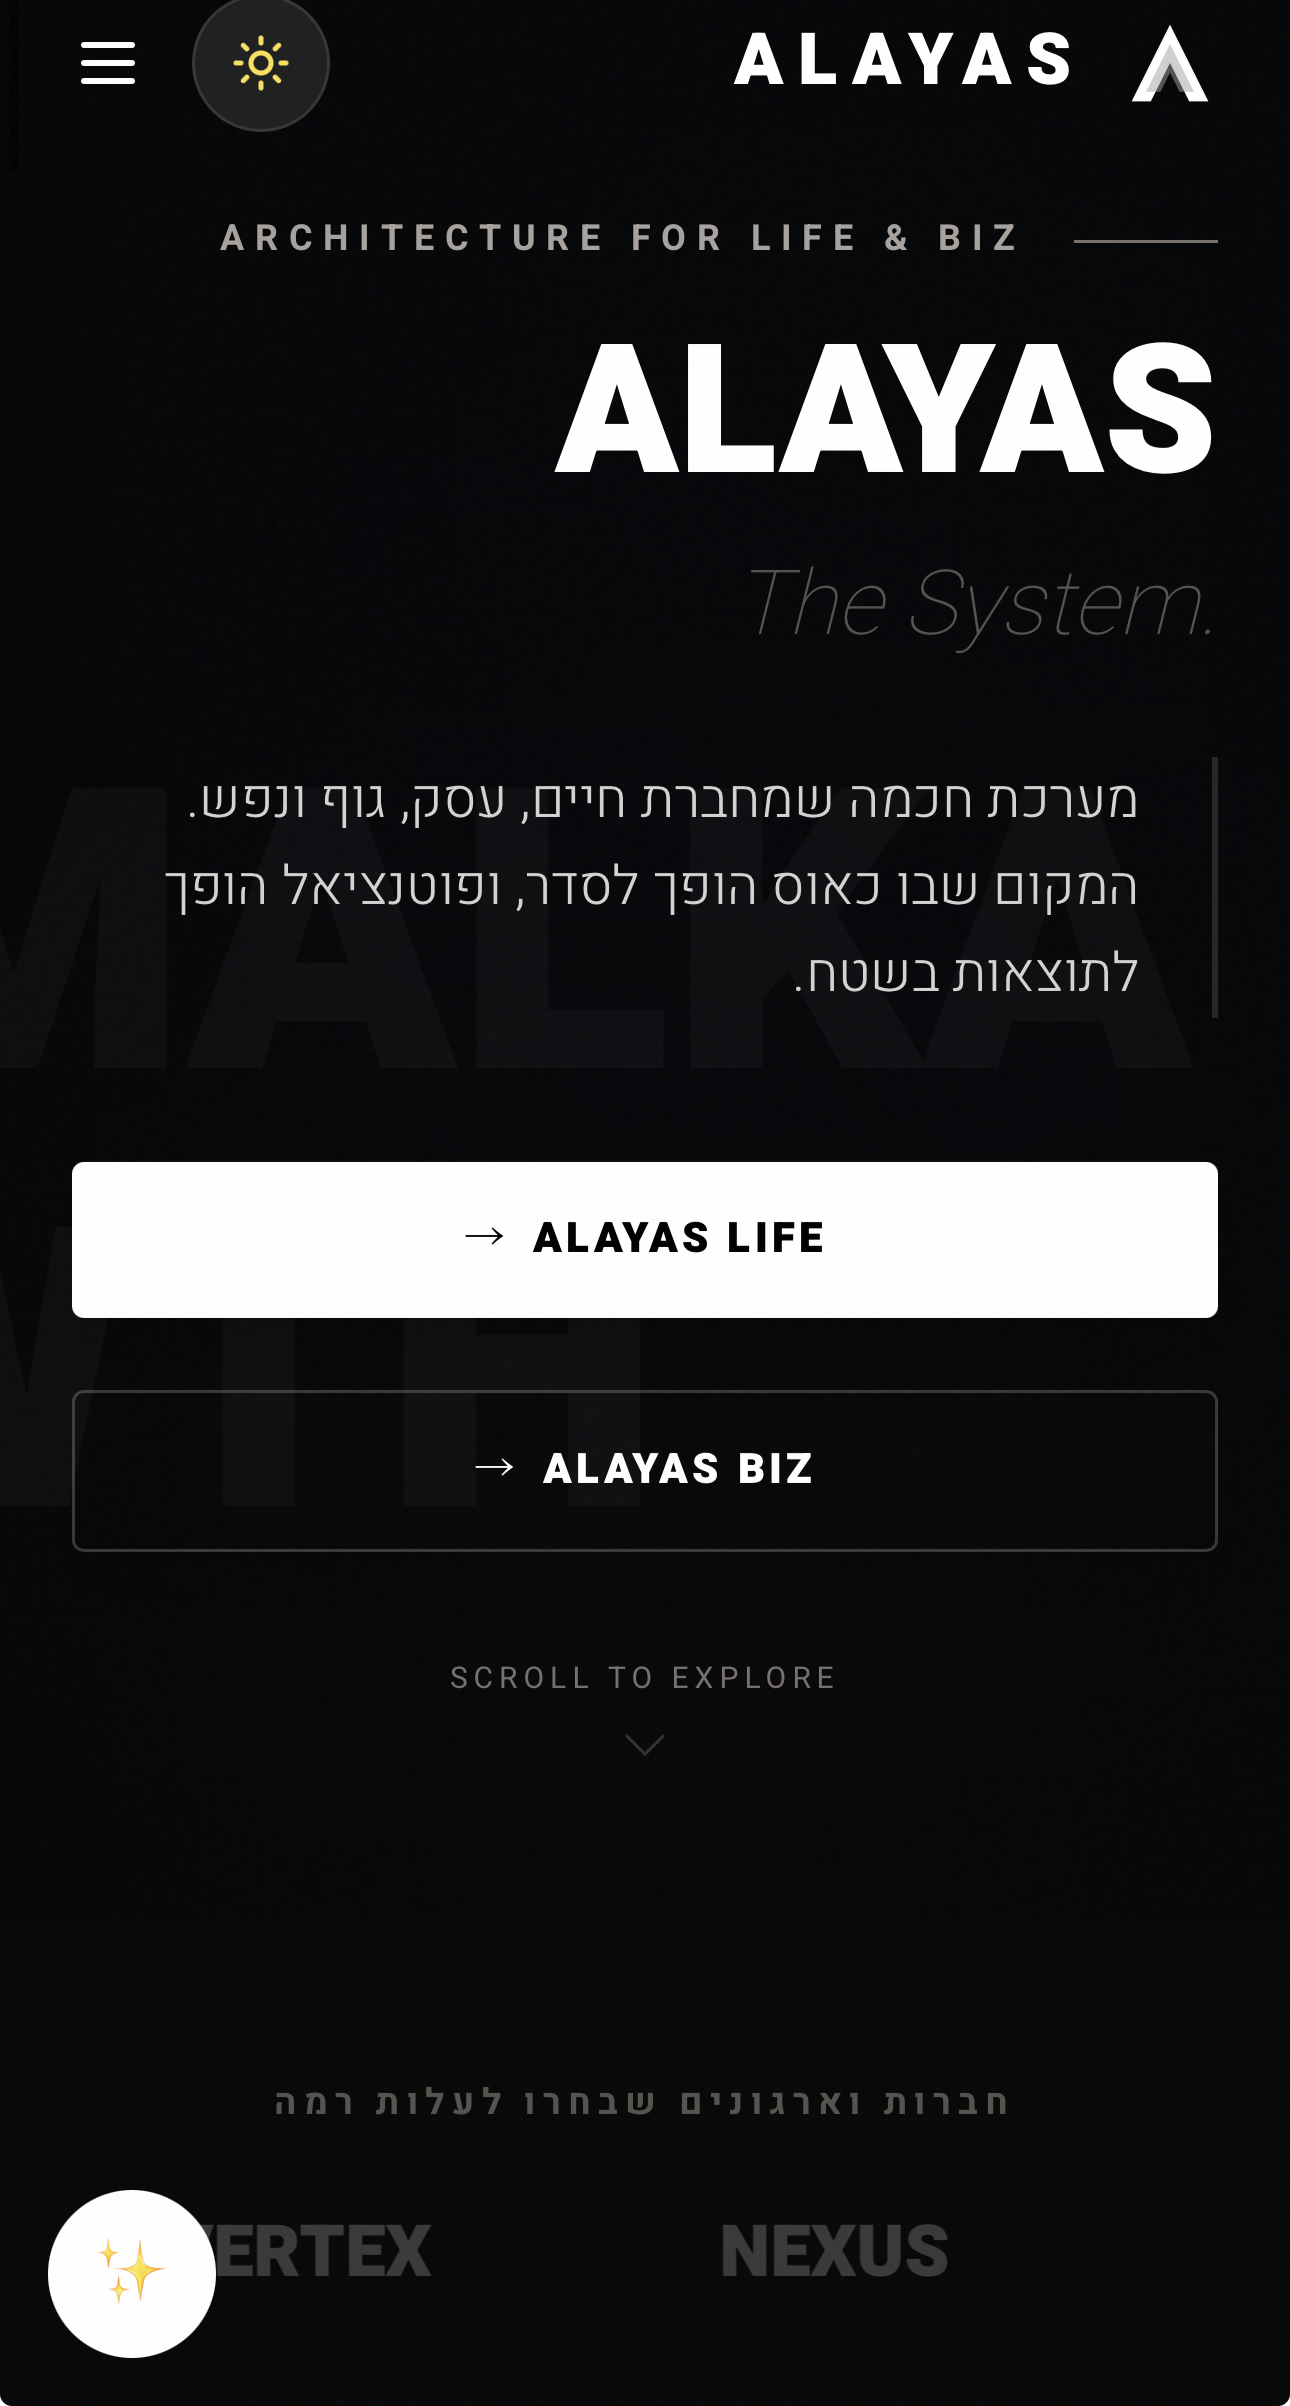
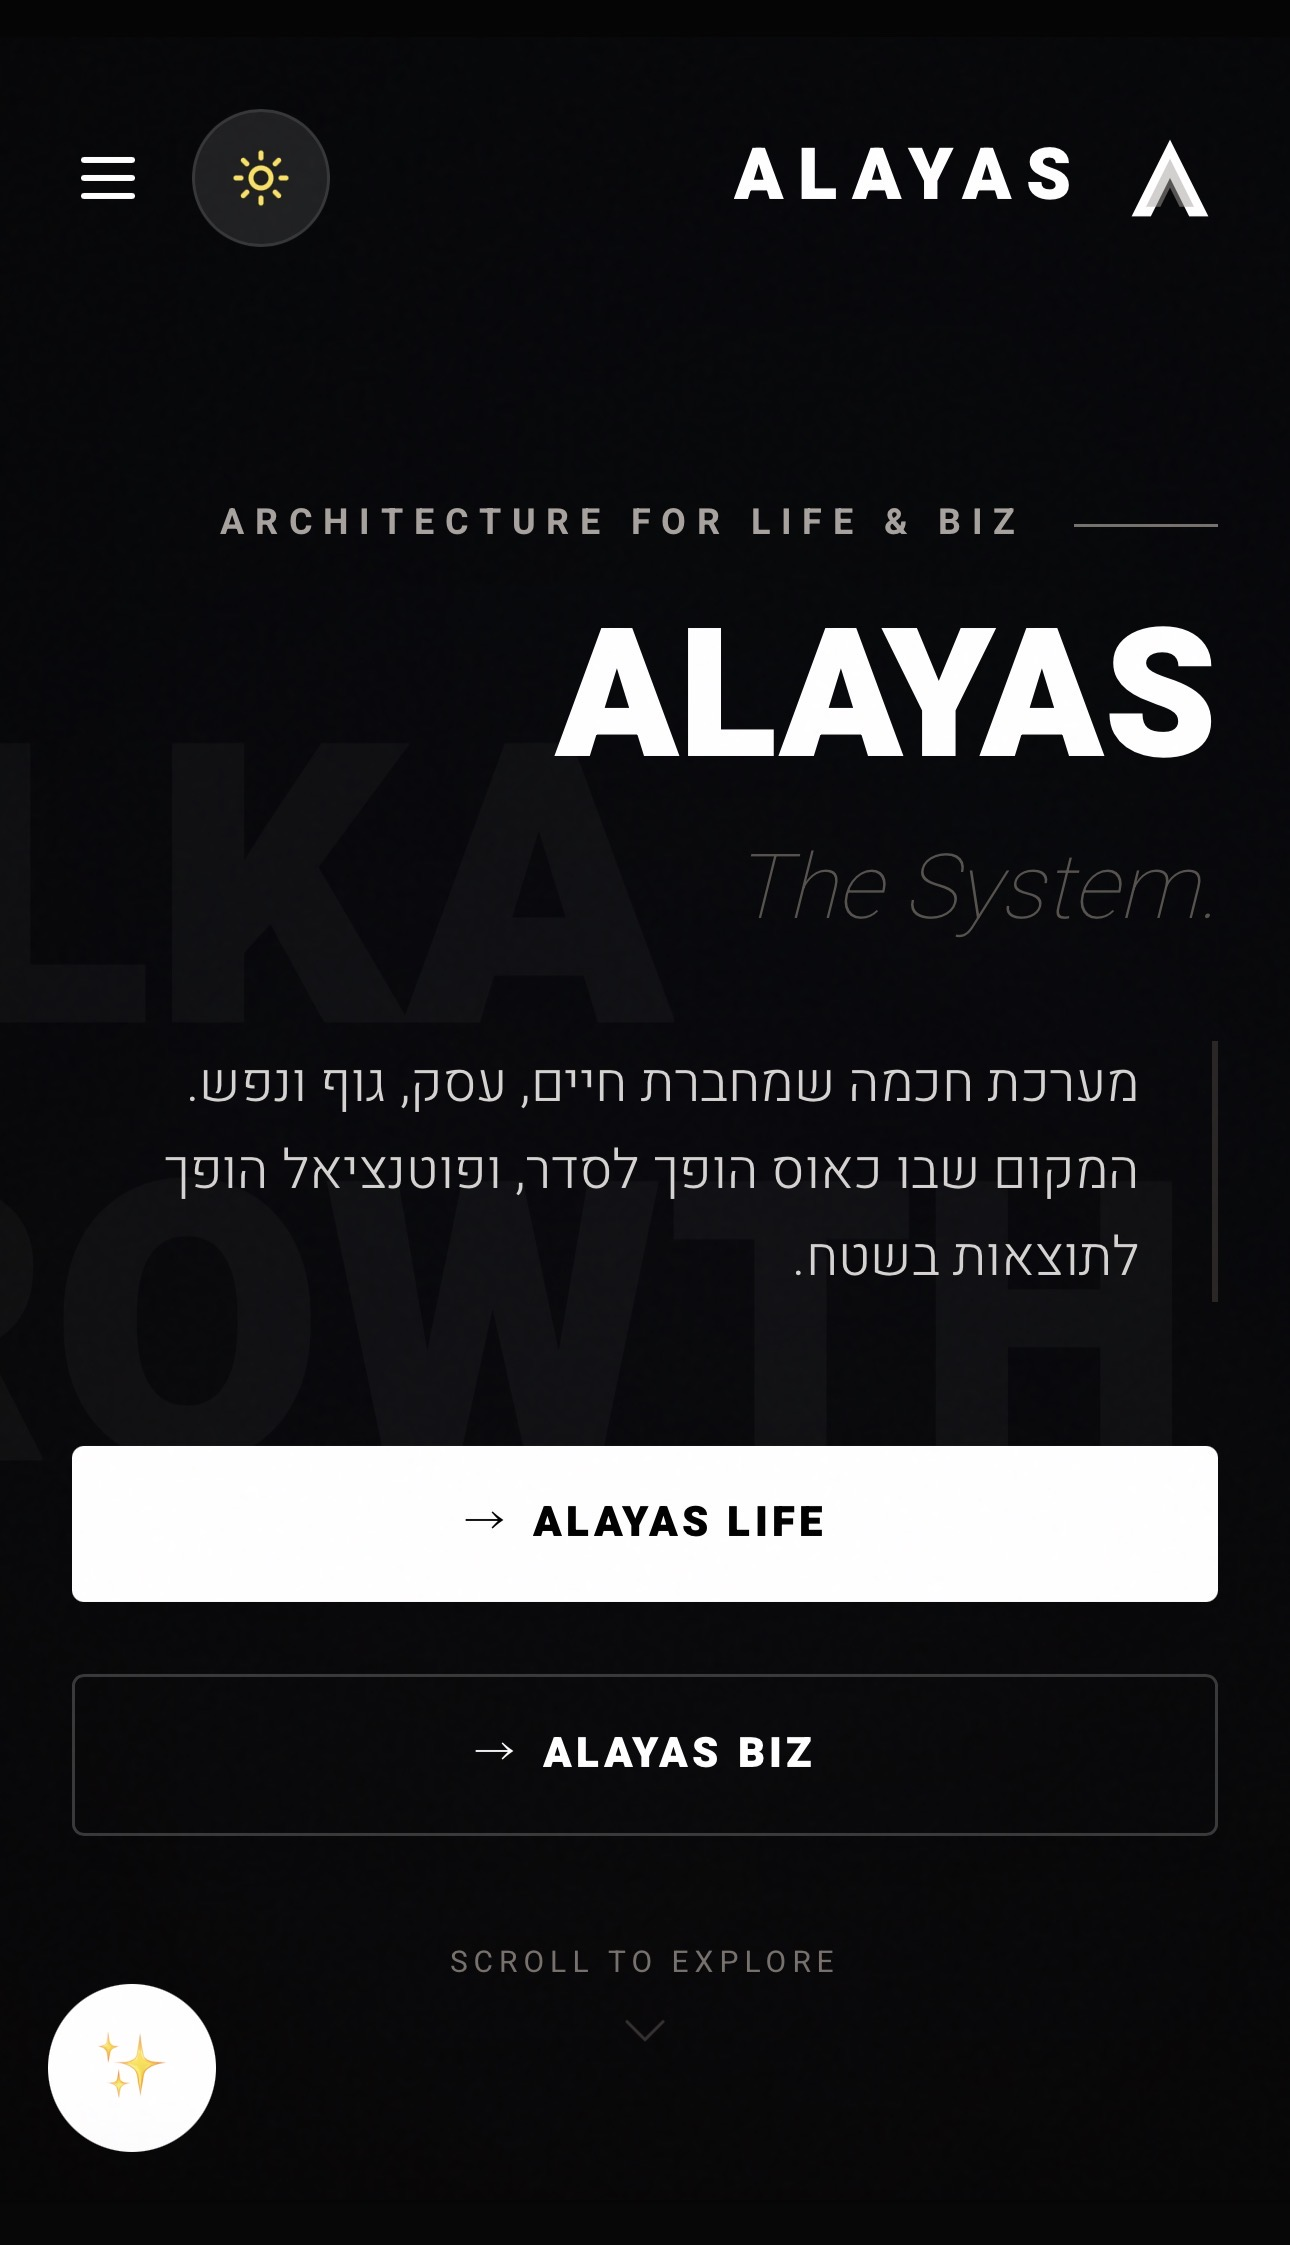
Move iPhone to left of Mac and update mobile screenshot

diff --git a/assets/css/style.css b/assets/css/style.css
@@ -1098,7 +1098,7 @@ nav#mainNav {
 .showcase-devices .device-phone {
   position: absolute;
   bottom: -70px;
-  right: -90px;
+  left: -90px;
   width: 180px;
   z-index: 2;
 }